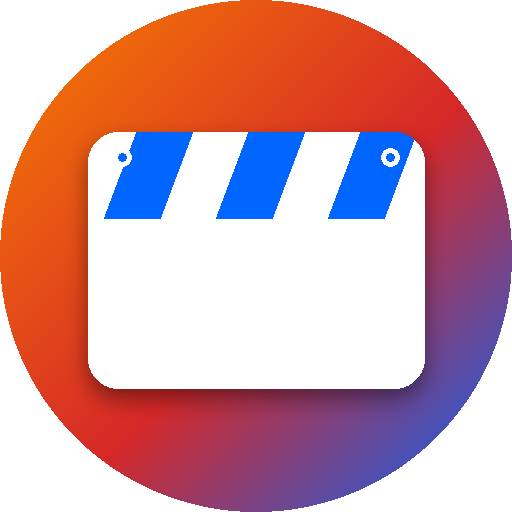
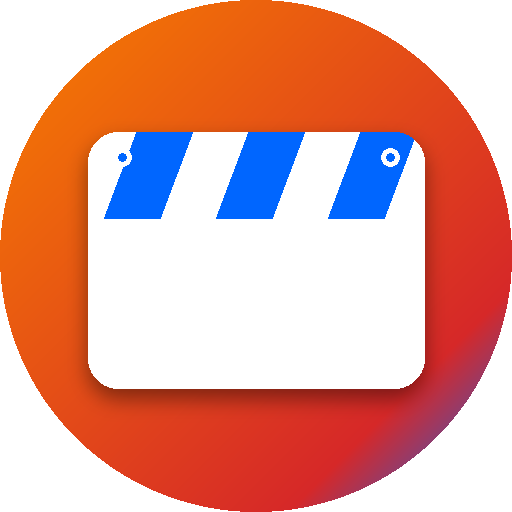
Shrink the blue portion of the gradient
Moved the red stop from 55% to 78%, so orange and red dominate and
blue only shows up as a small edge instead of a full third of the
gradient.

Changed region(s): [[0.1562, 0.1562, 1.0, 1.0], [0.2812, 0.7812, 0.3125, 0.8125]]

diff --git a/app/assets/stylesheets/components/index.scss b/app/assets/stylesheets/components/index.scss
@@ -6,7 +6,7 @@
 // is avoiding. Class names below keep their original "-ocean" suffix
 // from the old flat teal theme — renaming them would mean touching every
 // view that references them, for a purely cosmetic reason.
-$gradient-premiere: linear-gradient(135deg, #f77f00 0%, #d62828 55%, #0066ff 100%);
+$gradient-premiere: linear-gradient(135deg, #f77f00 0%, #d62828 78%, #0066ff 100%);
 $accent-warm: #d62828;
 $accent-deep: #0066ff;
 
